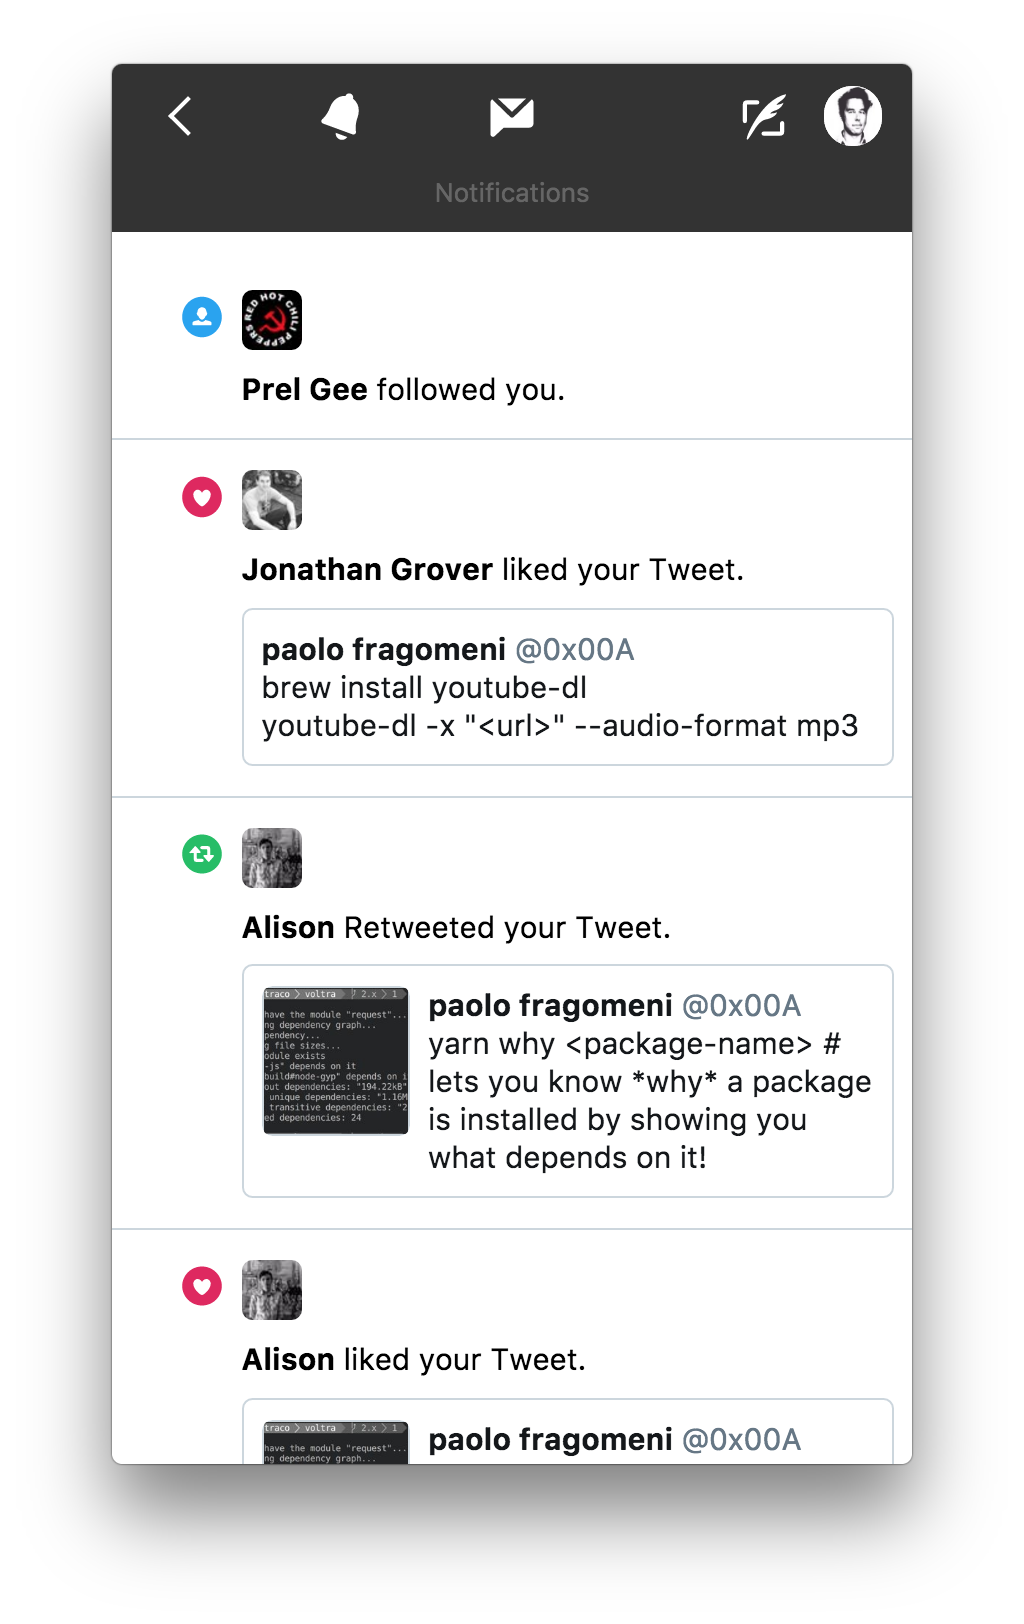
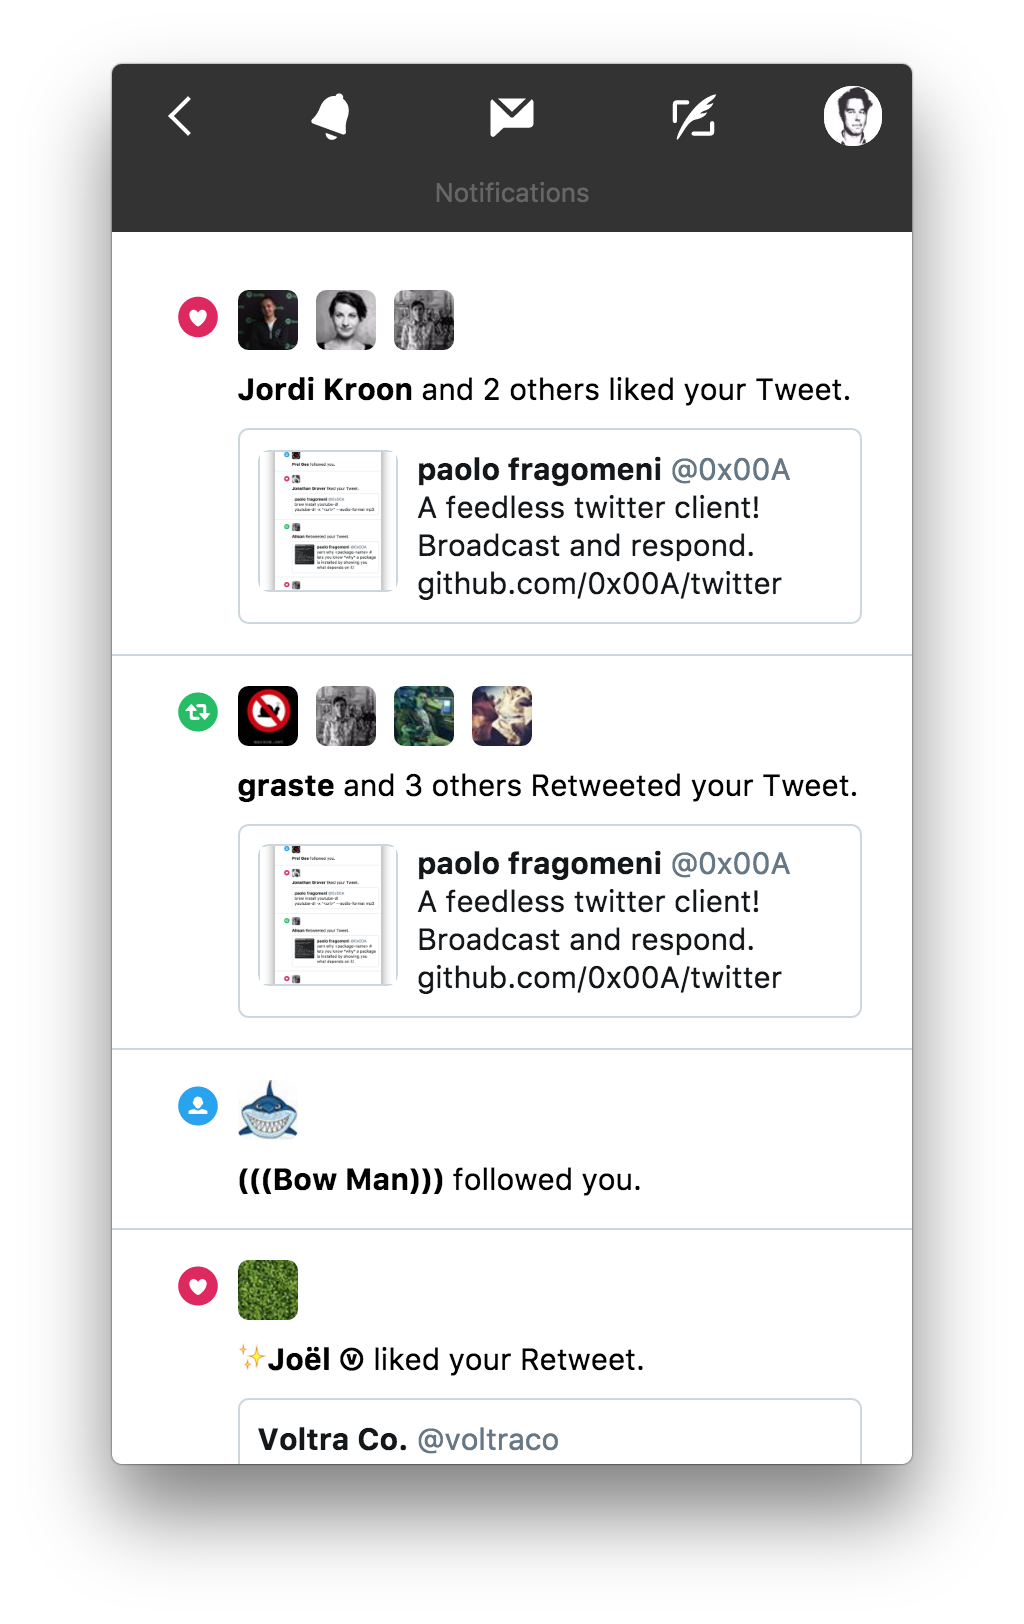
minor style tweaks

diff --git a/browser.css b/browser.css
@@ -22,6 +22,10 @@ main > div > div > div > div > div > h1[role="heading"] {
   top: -50px !important;
 }
 
+main [role="row"] article {
+  padding-right: 25px;
+}
+
 header [aria-label^="Account"],
 header [aria-label^="Direct Messages"],
 header [aria-label^="Notifications timeline"] {
@@ -29,6 +33,10 @@ header [aria-label^="Notifications timeline"] {
   top: 52px;
   box-shadow: none !important;
   color: white !important;
+}
+
+header [aria-label^="Notifications timeline"] {
+  left: -5px;
 }
 
 .header {
@@ -94,7 +102,7 @@ main > div > div > div > div {
 [aria-label^="Compose a Direct Message"],
 [aria-label^="Compose a Tweet"] {
   position: fixed;
-  right: 60px;
+  right: 95px;
   top: 14px;
   z-index: 100;
   color: white !important;
